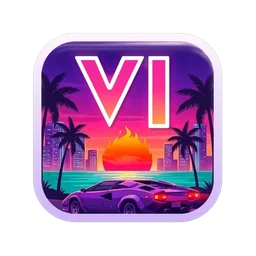
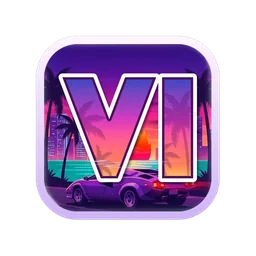
feat(storybook): GTA VI theme switch transition, centered VI award
Switching the theme cross-fades the page with the View Transitions API,
and the Vice City cover comes in like a camera pulling focus (blur and a
slight zoom settling over 500ms). No transition for reduced motion or
browsers without view transitions.

The award's VI is now large and centered, filled with the official GTA VI
logo gradient (blue to pink to orange) and its palm silhouettes, keeping
the white outline and the light lavender rim.

diff --git a/packages/storybook/stories/gta-vi/theme.tsx b/packages/storybook/stories/gta-vi/theme.tsx
@@ -1,5 +1,6 @@
 import type { ReactElement } from 'react';
-import React, { useId, useState } from 'react';
+import React, { useEffect, useId, useState } from 'react';
+import { flushSync } from 'react-dom';
 import classNames from 'classnames';
 import {
   Button,
@@ -258,7 +259,11 @@ const Shortcuts = ({
   </div>
 );
 
-/** The art, fading into the page so the greeting under it stays legible. */
+/**
+ * The art, fading into the page so the greeting under it stays legible. It
+ * comes in like a camera pulling focus: slightly zoomed and blurred, then
+ * sharp, over half a second.
+ */
 const CoverArt = ({
   isPhone,
   src = coverArt,
@@ -268,11 +273,22 @@ const CoverArt = ({
 }): ReactElement | null => {
   // A cover that fails to load leaves the default home, not a broken image.
   const [isBroken, setIsBroken] = useState(false);
+  const [isFocused, setIsFocused] = useState(false);
+  useEffect(() => {
+    const frame = requestAnimationFrame(() => setIsFocused(true));
+    return () => cancelAnimationFrame(frame);
+  }, []);
   if (isBroken) {
     return null;
   }
   return (
-    <div aria-hidden className="pointer-events-none absolute inset-x-0 top-0">
+    <div
+      aria-hidden
+      className={classNames(
+        'pointer-events-none absolute inset-x-0 top-0 transition-[opacity,filter,transform] duration-500 ease-out motion-reduce:transition-none',
+        isFocused ? 'scale-100 opacity-100 blur-0' : 'scale-105 opacity-0 blur-md',
+      )}
+    >
       <img
         src={src}
         alt=""
@@ -285,6 +301,22 @@ const CoverArt = ({
       <span className="absolute inset-0 bg-gradient-to-b from-transparent from-30% to-background-default to-90%" />
     </div>
   );
+};
+
+/**
+ * Cross-fades the whole page between themes with the View Transitions API,
+ * the browser's own snapshot fade (250ms, compositor only). Browsers without
+ * it, and readers who prefer reduced motion, switch instantly.
+ */
+const switchTheme = (apply: () => void): void => {
+  const canTransition =
+    'startViewTransition' in document &&
+    !window.matchMedia('(prefers-reduced-motion: reduce)').matches;
+  if (!canTransition) {
+    apply();
+    return;
+  }
+  document.startViewTransition(() => flushSync(apply));
 };
 
 const tabs = ['For you', 'AI', 'Career', 'Architecture', 'My new feed'];
@@ -362,7 +394,7 @@ export const ThemedHome = ({
         {isSettingsOpen && !isPhone && (
           <SettingsPopover
             theme={theme}
-            onTheme={setTheme}
+            onTheme={(next) => switchTheme(() => setTheme(next))}
             className="absolute bottom-4 left-[4.5rem] z-3"
           />
         )}
